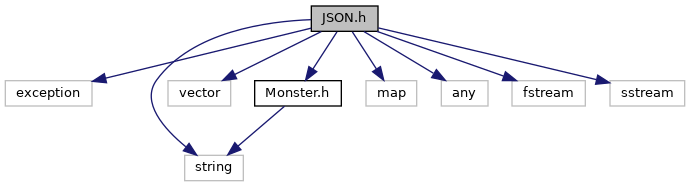
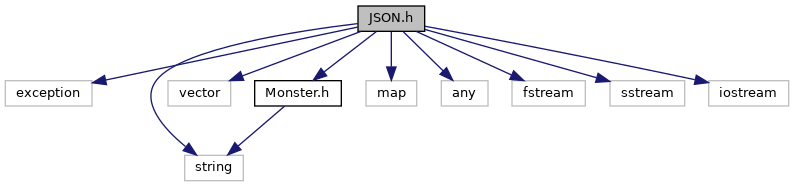
Update gh-pages to output generated at eb8deb3

diff --git a/JSON_8h_source.html b/JSON_8h_source.html
@@ -78,43 +78,53 @@ $(function() {
 <div class="line"><a name="l00019"></a><span class="lineno">   19</span>&#160;<span class="preprocessor">#include &lt;any&gt;</span></div>
 <div class="line"><a name="l00020"></a><span class="lineno">   20</span>&#160;<span class="preprocessor">#include &lt;fstream&gt;</span></div>
 <div class="line"><a name="l00021"></a><span class="lineno">   21</span>&#160;<span class="preprocessor">#include &lt;sstream&gt;</span></div>
-<div class="line"><a name="l00022"></a><span class="lineno">   22</span>&#160; </div>
+<div class="line"><a name="l00022"></a><span class="lineno">   22</span>&#160;<span class="preprocessor">#include &lt;iostream&gt;</span></div>
 <div class="line"><a name="l00023"></a><span class="lineno">   23</span>&#160; </div>
 <div class="line"><a name="l00024"></a><span class="lineno"><a class="line" href="classJSON.html">   24</a></span>&#160;<span class="keyword">class </span><a class="code" href="classJSON.html">JSON</a> {</div>
 <div class="line"><a name="l00025"></a><span class="lineno">   25</span>&#160;<span class="keyword">public</span>:</div>
-<div class="line"><a name="l00030"></a><span class="lineno">   30</span>&#160;    <a class="code" href="classJSON.html#ab41366d3f2db613b5cd2be0edd84985b">JSON</a>(<span class="keyword">const</span> std::map&lt;std::string, std::string&gt;&amp;);</div>
-<div class="line"><a name="l00031"></a><span class="lineno">   31</span>&#160;    </div>
-<div class="line"><a name="l00032"></a><span class="lineno">   32</span>&#160;    std::map&lt;std::string, std::string&gt; content;</div>
-<div class="line"><a name="l00033"></a><span class="lineno">   33</span>&#160;    </div>
-<div class="line"><a name="l00034"></a><span class="lineno">   34</span>&#160;    <span class="keyword">template</span> &lt;<span class="keyword">typename</span> T&gt;</div>
-<div class="line"><a name="l00035"></a><span class="lineno">   35</span>&#160;    T get(std::string key){</div>
-<div class="line"><a name="l00036"></a><span class="lineno">   36</span>&#160;        <span class="keywordflow">return</span> std::any_cast&lt;T&gt;(content[key]);</div>
-<div class="line"><a name="l00037"></a><span class="lineno">   37</span>&#160;    }</div>
-<div class="line"><a name="l00038"></a><span class="lineno">   38</span>&#160; </div>
-<div class="line"><a name="l00039"></a><span class="lineno">   39</span>&#160;    <span class="keywordtype">int</span> count(std::string);</div>
-<div class="line"><a name="l00047"></a><span class="lineno">   47</span>&#160;    <span class="keywordtype">bool</span> <a class="code" href="classJSON.html#acd65a0b1e2ceda335856f470a76adff0">isNumber</a>(<span class="keyword">const</span> std::string&amp;);</div>
-<div class="line"><a name="l00048"></a><span class="lineno">   48</span>&#160; </div>
-<div class="line"><a name="l00055"></a><span class="lineno">   55</span>&#160;    <span class="keyword">static</span> std::vector&lt;std::string&gt; <a class="code" href="classJSON.html#a632fd6947dc1de83bd3088c0774d1295">split</a>(<span class="keyword">const</span> std::string&amp;, <span class="keywordtype">char</span>);</div>
-<div class="line"><a name="l00062"></a><span class="lineno">   62</span>&#160;    <span class="keyword">static</span> std::vector&lt;std::string&gt; <a class="code" href="classJSON.html#a624b10e5bb22197f5e3818589afcb5a6">splitRowsJSON</a>(<span class="keyword">const</span> std::string&amp;);</div>
-<div class="line"><a name="l00069"></a><span class="lineno">   69</span>&#160;    <span class="keyword">static</span> std::string <a class="code" href="classJSON.html#af7161d083a7d4ea5ff0c76bb8a2fe7f4">removeJSONSpaces</a>(std::string);</div>
-<div class="line"><a name="l00070"></a><span class="lineno">   70</span>&#160; </div>
-<div class="line"><a name="l00077"></a><span class="lineno">   77</span>&#160;    <span class="keyword">static</span> <a class="code" href="classJSON.html">JSON</a> <a class="code" href="classJSON.html#a95fcb53d04ca4e9fcd8117880437ca4d">parseString</a>(<span class="keyword">const</span> std::string&amp;);</div>
-<div class="line"><a name="l00084"></a><span class="lineno">   84</span>&#160;    <span class="keyword">static</span> <a class="code" href="classJSON.html">JSON</a> <a class="code" href="classJSON.html#a928b250d7dcb828898e6814cb32c6182">parseStream</a>(std::ifstream&amp;);</div>
-<div class="line"><a name="l00091"></a><span class="lineno">   91</span>&#160;    <span class="keyword">static</span> <a class="code" href="classJSON.html">JSON</a> <a class="code" href="classJSON.html#a1c04537d4deced04d31fd48ae7009c54">parseFromFile</a>(<span class="keyword">const</span> std::string&amp;);</div>
-<div class="line"><a name="l00092"></a><span class="lineno">   92</span>&#160; </div>
-<div class="line"><a name="l00098"></a><span class="lineno">   98</span>&#160;    <span class="keywordtype">void</span> <a class="code" href="classJSON.html#a820f6bd7c781c3710592ddc7c66233a3">deleteCharacters</a>(<span class="keyword">const</span> std::vector&lt;Monster*&gt;&amp;);</div>
-<div class="line"><a name="l00099"></a><span class="lineno">   99</span>&#160;    std::vector&lt;std::string&gt; getJsonData(<span class="keyword">const</span> std::string&amp;);</div>
+<div class="line"><a name="l00030"></a><span class="lineno">   30</span>&#160;    <a class="code" href="classJSON.html#aba4f484f3ee84128f50ffd4d3b20ccf1">JSON</a>(<span class="keyword">const</span> std::map&lt;std::string, std::any&gt;&amp;);</div>
+<div class="line"><a name="l00031"></a><span class="lineno">   31</span>&#160;        </div>
+<div class="line"><a name="l00032"></a><span class="lineno">   32</span>&#160;    <span class="keyword">template</span> &lt;<span class="keyword">typename</span> T&gt;</div>
+<div class="line"><a name="l00033"></a><span class="lineno">   33</span>&#160;    T get(std::string key){</div>
+<div class="line"><a name="l00034"></a><span class="lineno">   34</span>&#160;        std::string value =  std::any_cast&lt;std::string&gt;(content[key]);</div>
+<div class="line"><a name="l00035"></a><span class="lineno">   35</span>&#160;        std::any converted;</div>
+<div class="line"><a name="l00036"></a><span class="lineno">   36</span>&#160;        <span class="keywordflow">if</span> (std::is_same&lt;T, int&gt;::value){</div>
+<div class="line"><a name="l00037"></a><span class="lineno">   37</span>&#160;            converted=(std::stoi(value));</div>
+<div class="line"><a name="l00038"></a><span class="lineno">   38</span>&#160;        }<span class="keywordflow">else</span> <span class="keywordflow">if</span>(std::is_same&lt;T, float&gt;::value){</div>
+<div class="line"><a name="l00039"></a><span class="lineno">   39</span>&#160;            converted=(std::stof(value));</div>
+<div class="line"><a name="l00040"></a><span class="lineno">   40</span>&#160;        }<span class="keywordflow">else</span> <span class="keywordflow">if</span>(std::is_same&lt;T, std::string&gt;::value){</div>
+<div class="line"><a name="l00041"></a><span class="lineno">   41</span>&#160;            converted=value;</div>
+<div class="line"><a name="l00042"></a><span class="lineno">   42</span>&#160;        }</div>
+<div class="line"><a name="l00043"></a><span class="lineno">   43</span>&#160;        </div>
+<div class="line"><a name="l00044"></a><span class="lineno">   44</span>&#160;        <span class="keywordflow">return</span> std::any_cast&lt;T&gt;(converted);</div>
+<div class="line"><a name="l00045"></a><span class="lineno">   45</span>&#160;    }</div>
+<div class="line"><a name="l00046"></a><span class="lineno">   46</span>&#160; </div>
+<div class="line"><a name="l00047"></a><span class="lineno">   47</span>&#160;    <span class="keywordtype">int</span> count(std::string);</div>
+<div class="line"><a name="l00055"></a><span class="lineno">   55</span>&#160;    <span class="keywordtype">bool</span> <a class="code" href="classJSON.html#acd65a0b1e2ceda335856f470a76adff0">isNumber</a>(<span class="keyword">const</span> std::string&amp;);</div>
+<div class="line"><a name="l00056"></a><span class="lineno">   56</span>&#160; </div>
+<div class="line"><a name="l00063"></a><span class="lineno">   63</span>&#160;    <span class="keyword">static</span> std::vector&lt;std::string&gt; <a class="code" href="classJSON.html#a632fd6947dc1de83bd3088c0774d1295">split</a>(<span class="keyword">const</span> std::string&amp;, <span class="keywordtype">char</span>);</div>
+<div class="line"><a name="l00070"></a><span class="lineno">   70</span>&#160;    <span class="keyword">static</span> std::vector&lt;std::string&gt; <a class="code" href="classJSON.html#a624b10e5bb22197f5e3818589afcb5a6">splitRowsJSON</a>(<span class="keyword">const</span> std::string&amp;);</div>
+<div class="line"><a name="l00077"></a><span class="lineno">   77</span>&#160;    <span class="keyword">static</span> std::string <a class="code" href="classJSON.html#af7161d083a7d4ea5ff0c76bb8a2fe7f4">removeJSONSpaces</a>(std::string);</div>
+<div class="line"><a name="l00078"></a><span class="lineno">   78</span>&#160; </div>
+<div class="line"><a name="l00085"></a><span class="lineno">   85</span>&#160;    <span class="keyword">static</span> <a class="code" href="classJSON.html">JSON</a> <a class="code" href="classJSON.html#a95fcb53d04ca4e9fcd8117880437ca4d">parseString</a>(<span class="keyword">const</span> std::string&amp;);</div>
+<div class="line"><a name="l00092"></a><span class="lineno">   92</span>&#160;    <span class="keyword">static</span> <a class="code" href="classJSON.html">JSON</a> <a class="code" href="classJSON.html#a928b250d7dcb828898e6814cb32c6182">parseStream</a>(std::ifstream&amp;);</div>
+<div class="line"><a name="l00099"></a><span class="lineno">   99</span>&#160;    <span class="keyword">static</span> <a class="code" href="classJSON.html">JSON</a> <a class="code" href="classJSON.html#a1c04537d4deced04d31fd48ae7009c54">parseFromFile</a>(<span class="keyword">const</span> std::string&amp;);</div>
 <div class="line"><a name="l00100"></a><span class="lineno">  100</span>&#160; </div>
-<div class="line"><a name="l00101"></a><span class="lineno"><a class="line" href="classJSON_1_1ParseException.html">  101</a></span>&#160;    <span class="keyword">class </span><a class="code" href="classJSON_1_1ParseException.html">ParseException</a> : std::exception</div>
-<div class="line"><a name="l00102"></a><span class="lineno">  102</span>&#160;    {</div>
-<div class="line"><a name="l00103"></a><span class="lineno">  103</span>&#160;        <span class="keyword">public</span>:</div>
-<div class="line"><a name="l00104"></a><span class="lineno">  104</span>&#160;        <a class="code" href="classJSON_1_1ParseException.html">ParseException</a>(){}</div>
-<div class="line"><a name="l00105"></a><span class="lineno">  105</span>&#160;    };</div>
-<div class="line"><a name="l00106"></a><span class="lineno">  106</span>&#160;};</div>
-<div class="line"><a name="l00107"></a><span class="lineno">  107</span>&#160; </div>
-<div class="line"><a name="l00108"></a><span class="lineno">  108</span>&#160;<span class="preprocessor">#endif</span></div>
+<div class="line"><a name="l00106"></a><span class="lineno">  106</span>&#160;    <span class="keywordtype">void</span> <a class="code" href="classJSON.html#a820f6bd7c781c3710592ddc7c66233a3">deleteCharacters</a>(<span class="keyword">const</span> std::vector&lt;Monster*&gt;&amp;);</div>
+<div class="line"><a name="l00107"></a><span class="lineno">  107</span>&#160;    std::vector&lt;std::string&gt; getJsonData(<span class="keyword">const</span> std::string&amp;);</div>
+<div class="line"><a name="l00108"></a><span class="lineno">  108</span>&#160; </div>
+<div class="line"><a name="l00109"></a><span class="lineno"><a class="line" href="classJSON_1_1ParseException.html">  109</a></span>&#160;    <span class="keyword">class </span><a class="code" href="classJSON_1_1ParseException.html">ParseException</a> : std::exception</div>
+<div class="line"><a name="l00110"></a><span class="lineno">  110</span>&#160;    {</div>
+<div class="line"><a name="l00111"></a><span class="lineno">  111</span>&#160;        <span class="keyword">public</span>:</div>
+<div class="line"><a name="l00112"></a><span class="lineno">  112</span>&#160;        <a class="code" href="classJSON_1_1ParseException.html">ParseException</a>(){}</div>
+<div class="line"><a name="l00113"></a><span class="lineno">  113</span>&#160;    };</div>
+<div class="line"><a name="l00114"></a><span class="lineno">  114</span>&#160; </div>
+<div class="line"><a name="l00115"></a><span class="lineno">  115</span>&#160;    <span class="keyword">protected</span>:</div>
+<div class="line"><a name="l00116"></a><span class="lineno">  116</span>&#160;        std::map&lt;std::string, std::any&gt; content;</div>
+<div class="line"><a name="l00117"></a><span class="lineno">  117</span>&#160;};</div>
+<div class="line"><a name="l00118"></a><span class="lineno">  118</span>&#160; </div>
+<div class="line"><a name="l00119"></a><span class="lineno">  119</span>&#160;<span class="preprocessor">#endif</span></div>
 </div><!-- fragment --></div><!-- contents -->
-<div class="ttc" id="aclassJSON_html_ab41366d3f2db613b5cd2be0edd84985b"><div class="ttname"><a href="classJSON.html#ab41366d3f2db613b5cd2be0edd84985b">JSON::JSON</a></div><div class="ttdeci">JSON(const std::map&lt; std::string, std::string &gt; &amp;)</div><div class="ttdoc">Constructor for JSON object.</div><div class="ttdef"><b>Definition:</b> JSON.cpp:11</div></div>
 <div class="ttc" id="aclassJSON_html_a624b10e5bb22197f5e3818589afcb5a6"><div class="ttname"><a href="classJSON.html#a624b10e5bb22197f5e3818589afcb5a6">JSON::splitRowsJSON</a></div><div class="ttdeci">static std::vector&lt; std::string &gt; splitRowsJSON(const std::string &amp;)</div><div class="ttdoc">Specific splitting method for JSON files, responsible for finding the JSON rows in a given JSON strin...</div><div class="ttdef"><b>Definition:</b> JSON.cpp:77</div></div>
 <div class="ttc" id="aclassJSON_html_a820f6bd7c781c3710592ddc7c66233a3"><div class="ttname"><a href="classJSON.html#a820f6bd7c781c3710592ddc7c66233a3">JSON::deleteCharacters</a></div><div class="ttdeci">void deleteCharacters(const std::vector&lt; Monster * &gt; &amp;)</div><div class="ttdoc">Delete every existing Character object given as input.</div><div class="ttdef"><b>Definition:</b> JSON.cpp:124</div></div>
 <div class="ttc" id="aclassJSON_html_a928b250d7dcb828898e6814cb32c6182"><div class="ttname"><a href="classJSON.html#a928b250d7dcb828898e6814cb32c6182">JSON::parseStream</a></div><div class="ttdeci">static JSON parseStream(std::ifstream &amp;)</div><div class="ttdoc">JSON parser method, takes an ifstream as an input and returns an object of the JSON class.</div><div class="ttdef"><b>Definition:</b> JSON.cpp:178</div></div>
@@ -124,8 +134,9 @@ $(function() {
 <div class="ttc" id="aclassJSON_html_a1c04537d4deced04d31fd48ae7009c54"><div class="ttname"><a href="classJSON.html#a1c04537d4deced04d31fd48ae7009c54">JSON::parseFromFile</a></div><div class="ttdeci">static JSON parseFromFile(const std::string &amp;)</div><div class="ttdoc">JSON parser method, takes a string as an input and returns an object of the JSON class.</div><div class="ttdef"><b>Definition:</b> JSON.cpp:195</div></div>
 <div class="ttc" id="aclassJSON_html_acd65a0b1e2ceda335856f470a76adff0"><div class="ttname"><a href="classJSON.html#acd65a0b1e2ceda335856f470a76adff0">JSON::isNumber</a></div><div class="ttdeci">bool isNumber(const std::string &amp;)</div><div class="ttdoc">Method for checking if a given input is a number or not.</div></div>
 <div class="ttc" id="aclassJSON_html"><div class="ttname"><a href="classJSON.html">JSON</a></div><div class="ttdoc">JSON namespace.</div><div class="ttdef"><b>Definition:</b> JSON.h:24</div></div>
+<div class="ttc" id="aclassJSON_html_aba4f484f3ee84128f50ffd4d3b20ccf1"><div class="ttname"><a href="classJSON.html#aba4f484f3ee84128f50ffd4d3b20ccf1">JSON::JSON</a></div><div class="ttdeci">JSON(const std::map&lt; std::string, std::any &gt; &amp;)</div><div class="ttdoc">Constructor for JSON object.</div><div class="ttdef"><b>Definition:</b> JSON.cpp:11</div></div>
 <div class="ttc" id="aMonster_8h_html"><div class="ttname"><a href="Monster_8h.html">Monster.h</a></div><div class="ttdoc">Monster class.</div></div>
-<div class="ttc" id="aclassJSON_1_1ParseException_html"><div class="ttname"><a href="classJSON_1_1ParseException.html">JSON::ParseException</a></div><div class="ttdef"><b>Definition:</b> JSON.h:101</div></div>
+<div class="ttc" id="aclassJSON_1_1ParseException_html"><div class="ttname"><a href="classJSON_1_1ParseException.html">JSON::ParseException</a></div><div class="ttdef"><b>Definition:</b> JSON.h:109</div></div>
 <!-- start footer part -->
 <hr class="footer"/><address class="footer"><small>
 Generated by &#160;<a href="http://www.doxygen.org/index.html">

diff --git a/classJSON.html b/classJSON.html
@@ -67,7 +67,7 @@ $(function() {
 <a href="#nested-classes">Classes</a> &#124;
 <a href="#pub-methods">Public Member Functions</a> &#124;
 <a href="#pub-static-methods">Static Public Member Functions</a> &#124;
-<a href="#pub-attribs">Public Attributes</a> &#124;
+<a href="#pro-attribs">Protected Attributes</a> &#124;
 <a href="classJSON-members.html">List of all members</a>  </div>
   <div class="headertitle">
 <div class="title">JSON Class Reference</div>  </div>
@@ -86,9 +86,9 @@ Classes</h2></td></tr>
 </table><table class="memberdecls">
 <tr class="heading"><td colspan="2"><h2 class="groupheader"><a name="pub-methods"></a>
 Public Member Functions</h2></td></tr>
-<tr class="memitem:ab41366d3f2db613b5cd2be0edd84985b"><td class="memItemLeft" align="right" valign="top">&#160;</td><td class="memItemRight" valign="bottom"><a class="el" href="classJSON.html#ab41366d3f2db613b5cd2be0edd84985b">JSON</a> (const std::map&lt; std::string, std::string &gt; &amp;)</td></tr>
-<tr class="memdesc:ab41366d3f2db613b5cd2be0edd84985b"><td class="mdescLeft">&#160;</td><td class="mdescRight">Constructor for <a class="el" href="classJSON.html" title="JSON namespace.">JSON</a> object.  <a href="classJSON.html#ab41366d3f2db613b5cd2be0edd84985b">More...</a><br /></td></tr>
-<tr class="separator:ab41366d3f2db613b5cd2be0edd84985b"><td class="memSeparator" colspan="2">&#160;</td></tr>
+<tr class="memitem:aba4f484f3ee84128f50ffd4d3b20ccf1"><td class="memItemLeft" align="right" valign="top">&#160;</td><td class="memItemRight" valign="bottom"><a class="el" href="classJSON.html#aba4f484f3ee84128f50ffd4d3b20ccf1">JSON</a> (const std::map&lt; std::string, std::any &gt; &amp;)</td></tr>
+<tr class="memdesc:aba4f484f3ee84128f50ffd4d3b20ccf1"><td class="mdescLeft">&#160;</td><td class="mdescRight">Constructor for <a class="el" href="classJSON.html" title="JSON namespace.">JSON</a> object.  <a href="classJSON.html#aba4f484f3ee84128f50ffd4d3b20ccf1">More...</a><br /></td></tr>
+<tr class="separator:aba4f484f3ee84128f50ffd4d3b20ccf1"><td class="memSeparator" colspan="2">&#160;</td></tr>
 <tr class="memitem:a6e05c25394240770da452ee6c13ed5bf"><td class="memTemplParams" colspan="2"><a id="a6e05c25394240770da452ee6c13ed5bf"></a>
 template&lt;typename T &gt; </td></tr>
 <tr class="memitem:a6e05c25394240770da452ee6c13ed5bf"><td class="memTemplItemLeft" align="right" valign="top">T&#160;</td><td class="memTemplItemRight" valign="bottom"><b>get</b> (std::string key)</td></tr>
@@ -127,19 +127,19 @@ Static Public Member Functions</h2></td></tr>
 <tr class="memdesc:a1c04537d4deced04d31fd48ae7009c54"><td class="mdescLeft">&#160;</td><td class="mdescRight"><a class="el" href="classJSON.html" title="JSON namespace.">JSON</a> parser method, takes a string as an input and returns an object of the <a class="el" href="classJSON.html" title="JSON namespace.">JSON</a> class.  <a href="classJSON.html#a1c04537d4deced04d31fd48ae7009c54">More...</a><br /></td></tr>
 <tr class="separator:a1c04537d4deced04d31fd48ae7009c54"><td class="memSeparator" colspan="2">&#160;</td></tr>
 </table><table class="memberdecls">
-<tr class="heading"><td colspan="2"><h2 class="groupheader"><a name="pub-attribs"></a>
-Public Attributes</h2></td></tr>
-<tr class="memitem:a091ee718ddb58cfbe3b18aeba473cffa"><td class="memItemLeft" align="right" valign="top"><a id="a091ee718ddb58cfbe3b18aeba473cffa"></a>
-std::map&lt; std::string, std::string &gt;&#160;</td><td class="memItemRight" valign="bottom"><b>content</b></td></tr>
-<tr class="separator:a091ee718ddb58cfbe3b18aeba473cffa"><td class="memSeparator" colspan="2">&#160;</td></tr>
+<tr class="heading"><td colspan="2"><h2 class="groupheader"><a name="pro-attribs"></a>
+Protected Attributes</h2></td></tr>
+<tr class="memitem:a0dedec8b51a0f5db61a7f1bdadca3c59"><td class="memItemLeft" align="right" valign="top"><a id="a0dedec8b51a0f5db61a7f1bdadca3c59"></a>
+std::map&lt; std::string, std::any &gt;&#160;</td><td class="memItemRight" valign="bottom"><b>content</b></td></tr>
+<tr class="separator:a0dedec8b51a0f5db61a7f1bdadca3c59"><td class="memSeparator" colspan="2">&#160;</td></tr>
 </table>
 <a name="details" id="details"></a><h2 class="groupheader">Detailed Description</h2>
 <div class="textblock"><p><a class="el" href="classJSON.html" title="JSON namespace.">JSON</a> namespace. </p>
 <dl class="section version"><dt>Version</dt><dd>1.0 </dd></dl>
 <dl class="section date"><dt>Date</dt><dd>2020-10-11 </dd></dl>
 </div><h2 class="groupheader">Constructor &amp; Destructor Documentation</h2>
-<a id="ab41366d3f2db613b5cd2be0edd84985b"></a>
-<h2 class="memtitle"><span class="permalink"><a href="#ab41366d3f2db613b5cd2be0edd84985b">&#9670;&nbsp;</a></span>JSON()</h2>
+<a id="aba4f484f3ee84128f50ffd4d3b20ccf1"></a>
+<h2 class="memtitle"><span class="permalink"><a href="#aba4f484f3ee84128f50ffd4d3b20ccf1">&#9670;&nbsp;</a></span>JSON()</h2>
 
 <div class="memitem">
 <div class="memproto">
@@ -147,7 +147,7 @@ std::map&lt; std::string, std::string &gt;&#160;</td><td class="memItemRight" va
         <tr>
           <td class="memname">JSON::JSON </td>
           <td>(</td>
-          <td class="paramtype">const std::map&lt; std::string, std::string &gt; &amp;&#160;</td>
+          <td class="paramtype">const std::map&lt; std::string, std::any &gt; &amp;&#160;</td>
           <td class="paramname"><em>incoming_content</em></td><td>)</td>
           <td></td>
         </tr>

diff --git a/classJSON-members.html b/classJSON-members.html
@@ -70,13 +70,13 @@ $(function() {
 
 <p>This is the complete list of members for <a class="el" href="classJSON.html">JSON</a>, including all inherited members.</p>
 <table class="directory">
-  <tr bgcolor="#f0f0f0" class="even"><td class="entry"><b>content</b> (defined in <a class="el" href="classJSON.html">JSON</a>)</td><td class="entry"><a class="el" href="classJSON.html">JSON</a></td><td class="entry"></td></tr>
+  <tr bgcolor="#f0f0f0" class="even"><td class="entry"><b>content</b> (defined in <a class="el" href="classJSON.html">JSON</a>)</td><td class="entry"><a class="el" href="classJSON.html">JSON</a></td><td class="entry"><span class="mlabel">protected</span></td></tr>
   <tr bgcolor="#f0f0f0"><td class="entry"><b>count</b>(std::string) (defined in <a class="el" href="classJSON.html">JSON</a>)</td><td class="entry"><a class="el" href="classJSON.html">JSON</a></td><td class="entry"></td></tr>
   <tr class="even"><td class="entry"><a class="el" href="classJSON.html#a820f6bd7c781c3710592ddc7c66233a3">deleteCharacters</a>(const std::vector&lt; Monster * &gt; &amp;)</td><td class="entry"><a class="el" href="classJSON.html">JSON</a></td><td class="entry"></td></tr>
   <tr bgcolor="#f0f0f0"><td class="entry"><b>get</b>(std::string key) (defined in <a class="el" href="classJSON.html">JSON</a>)</td><td class="entry"><a class="el" href="classJSON.html">JSON</a></td><td class="entry"><span class="mlabel">inline</span></td></tr>
   <tr bgcolor="#f0f0f0" class="even"><td class="entry"><b>getJsonData</b>(const std::string &amp;) (defined in <a class="el" href="classJSON.html">JSON</a>)</td><td class="entry"><a class="el" href="classJSON.html">JSON</a></td><td class="entry"></td></tr>
   <tr><td class="entry"><a class="el" href="classJSON.html#acd65a0b1e2ceda335856f470a76adff0">isNumber</a>(const std::string &amp;)</td><td class="entry"><a class="el" href="classJSON.html">JSON</a></td><td class="entry"></td></tr>
-  <tr class="even"><td class="entry"><a class="el" href="classJSON.html#ab41366d3f2db613b5cd2be0edd84985b">JSON</a>(const std::map&lt; std::string, std::string &gt; &amp;)</td><td class="entry"><a class="el" href="classJSON.html">JSON</a></td><td class="entry"></td></tr>
+  <tr class="even"><td class="entry"><a class="el" href="classJSON.html#aba4f484f3ee84128f50ffd4d3b20ccf1">JSON</a>(const std::map&lt; std::string, std::any &gt; &amp;)</td><td class="entry"><a class="el" href="classJSON.html">JSON</a></td><td class="entry"></td></tr>
   <tr><td class="entry"><a class="el" href="classJSON.html#a1c04537d4deced04d31fd48ae7009c54">parseFromFile</a>(const std::string &amp;)</td><td class="entry"><a class="el" href="classJSON.html">JSON</a></td><td class="entry"><span class="mlabel">static</span></td></tr>
   <tr class="even"><td class="entry"><a class="el" href="classJSON.html#a928b250d7dcb828898e6814cb32c6182">parseStream</a>(std::ifstream &amp;)</td><td class="entry"><a class="el" href="classJSON.html">JSON</a></td><td class="entry"><span class="mlabel">static</span></td></tr>
   <tr><td class="entry"><a class="el" href="classJSON.html#a95fcb53d04ca4e9fcd8117880437ca4d">parseString</a>(const std::string &amp;)</td><td class="entry"><a class="el" href="classJSON.html">JSON</a></td><td class="entry"><span class="mlabel">static</span></td></tr>

diff --git a/JSON_8h.html b/JSON_8h.html
@@ -77,12 +77,13 @@ $(function() {
 <code>#include &lt;any&gt;</code><br />
 <code>#include &lt;fstream&gt;</code><br />
 <code>#include &lt;sstream&gt;</code><br />
+<code>#include &lt;iostream&gt;</code><br />
 </div><div class="textblock"><div class="dynheader">
 Include dependency graph for JSON.h:</div>
 <div class="dyncontent">
 <div class="center"><img src="JSON_8h__incl.png" border="0" usemap="#JSON_8h" alt=""/></div>
 <map name="JSON_8h" id="JSON_8h">
-<area shape="rect" title=" " alt="" coords="311,5,378,32"/>
+<area shape="rect" title=" " alt="" coords="358,5,425,32"/>
 <area shape="rect" title=" " alt="" coords="5,80,92,107"/>
 <area shape="rect" title=" " alt="" coords="185,155,243,181"/>
 <area shape="rect" title=" " alt="" coords="168,80,231,107"/>
@@ -91,6 +92,7 @@ Include dependency graph for JSON.h:</div>
 <area shape="rect" title=" " alt="" coords="441,80,488,107"/>
 <area shape="rect" title=" " alt="" coords="512,80,585,107"/>
 <area shape="rect" title=" " alt="" coords="610,80,685,107"/>
+<area shape="rect" title=" " alt="" coords="709,80,789,107"/>
 </map>
 </div>
 </div>

diff --git a/functions_func.html b/functions_func.html
@@ -102,7 +102,7 @@ $(function() {
 : <a class="el" href="classJSON.html#acd65a0b1e2ceda335856f470a76adff0">JSON</a>
 </li>
 <li>JSON()
-: <a class="el" href="classJSON.html#ab41366d3f2db613b5cd2be0edd84985b">JSON</a>
+: <a class="el" href="classJSON.html#aba4f484f3ee84128f50ffd4d3b20ccf1">JSON</a>
 </li>
 <li>levelUp()
 : <a class="el" href="classHero.html#aef06e69ebb7d2d18c640af5e6746dff6">Hero</a>

diff --git a/search/all_7.js b/search/all_7.js
@@ -1,5 +1,5 @@
 var searchData=
 [
-  ['json_21',['JSON',['../classJSON.html',1,'JSON'],['../classJSON.html#ab41366d3f2db613b5cd2be0edd84985b',1,'JSON::JSON()']]],
+  ['json_21',['JSON',['../classJSON.html',1,'JSON'],['../classJSON.html#aba4f484f3ee84128f50ffd4d3b20ccf1',1,'JSON::JSON()']]],
   ['json_2eh_22',['JSON.h',['../JSON_8h.html',1,'']]]
 ];

diff --git a/functions.html b/functions.html
@@ -156,7 +156,7 @@ $(function() {
 
 <h3><a id="index_j"></a>- j -</h3><ul>
 <li>JSON()
-: <a class="el" href="classJSON.html#ab41366d3f2db613b5cd2be0edd84985b">JSON</a>
+: <a class="el" href="classJSON.html#aba4f484f3ee84128f50ffd4d3b20ccf1">JSON</a>
 </li>
 </ul>
 

diff --git a/search/functions_5.js b/search/functions_5.js
@@ -1,4 +1,4 @@
 var searchData=
 [
-  ['json_60',['JSON',['../classJSON.html#ab41366d3f2db613b5cd2be0edd84985b',1,'JSON']]]
+  ['json_60',['JSON',['../classJSON.html#aba4f484f3ee84128f50ffd4d3b20ccf1',1,'JSON']]]
 ];
